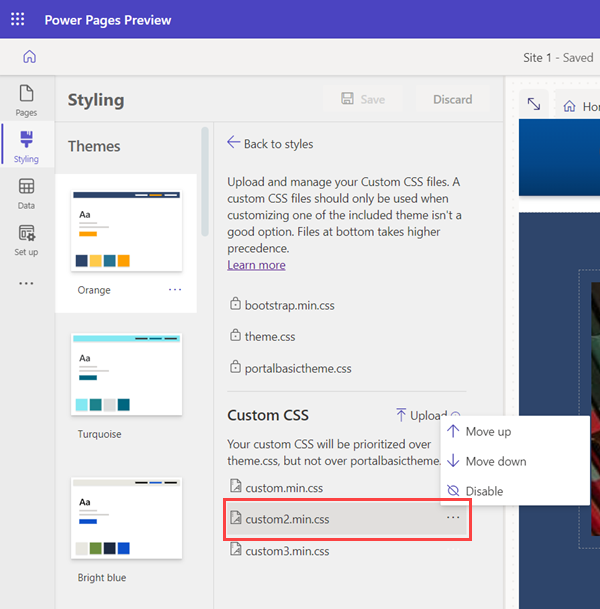
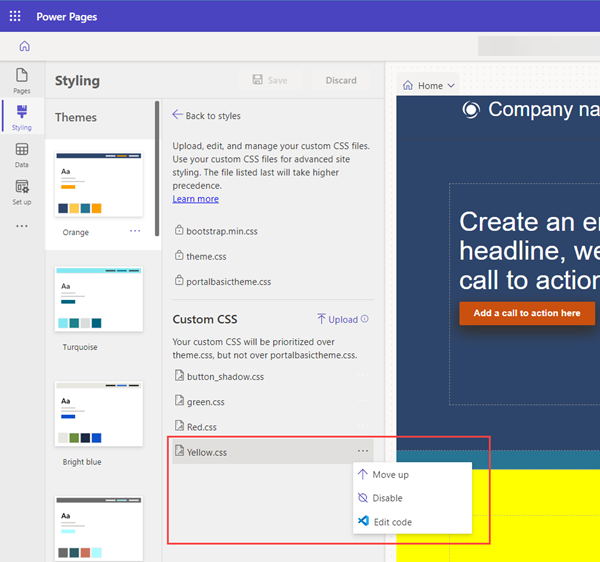
2985098

diff --git a/power-pages-docs/getting-started/tutorial-add-custom-style.md b/power-pages-docs/getting-started/tutorial-add-custom-style.md
@@ -4,7 +4,7 @@ description: Learn how to add custom CSS to your Power Pages sites.
 author: ankitavish
 ms.topic: tutorial
 ms.custom: template-tutorial
-ms.date: 09/20/2022
+ms.date: 10/17/2022
 ms.subservice:
 ms.author: avishwakarma 
 ms.reviewer: ndoelman
@@ -23,21 +23,32 @@ In this tutorial, you learn how to:
 
 > [!div class="checklist"]
 > * Upload a custom CSS file
+> * Edit CSS is Visual Studio Code for the Web
 
 ## Prerequisites
 
 - A Power Pages subscription or trial. [Get a Power Pages trial here](trial-signup.md).
 - A Power Pages site created. [Create a Power Pages site](create-manage.md).
-- A custom theme created using your favorite CSS editor.
+- A custom theme file created using your favorite CSS editor.
 
 > [!NOTE]  
 > Any custom theme you create must be compatible with Bootstrap v3.
 
 ## Add custom CSS to your site
 
-1. Create or download a custom theme and save as a .CSS file.
+In this example, we are going to add some custom CSS files that will allow us to add shadow effects to buttons on our website. You can use your own custom CSS file or use the sample provided.
+
+1. To create a sample, in your favorite CSS editor, create the **button_shadow.css** custom theme file and save.
+
+    ```css
+    .button1 {
+    box-shadow: 0 9px 18px 0 #333333, 0 8px 24px 0 #333333;
+     }
+    ```
 
 1. Go to [Power Pages](https://make.powerpages.microsoft.com/).
+
+1. Select the site to which you want to add the custom theme and choose **Edit**.
 
 1. Open up the **Styling** workspace.
 
@@ -47,11 +58,21 @@ In this tutorial, you learn how to:
 
 1. In the **Custom CSS** section, select **Upload** and choose your custom CSS file. You can only upload one CSS file at a time, but multiple files can be uploaded. If multiple CSS files update the same attribute, the attributes in the CSS file at the bottom of the list will apply. You can adjust the order of your custom CSS files.
 
-1. Select **Preview** to view the custom theme on your site.
+1. You should immediately see the results of the updates on the pages canvas.
 
-1. You can disable, or move the order of your custom CSS files.
+    :::image type="content" source="media/tutorial/button-shadow.png" alt-text="Button shadow effect from uploaded CSS file.":::
+
+1. You can disable, or move the order of your custom CSS files. The file listed last will take precedence over the others.
 
     :::image type="content" source="media/tutorial/css-order.png" alt-text="Disable or move the order of the CSS file.":::
+
+1. You can directly edit a CSS file by selecting the ellipse (**...**) and selecting Edit Code. This will open the Visual Code for the Web editor. Select **CTRL-S** to save your changes. 
+
+    :::image type="content" source="media/tutorial/edit-css-vscode.png" alt-text="Edit the CSS file in Visual Studio Code for the Web.":::
+
+1. Select **Sync** in the design studio to update the CSS and view the changes.
+
+1. Select **Preview** to view the custom theme on your site.
 
 > [!NOTE]
 >
